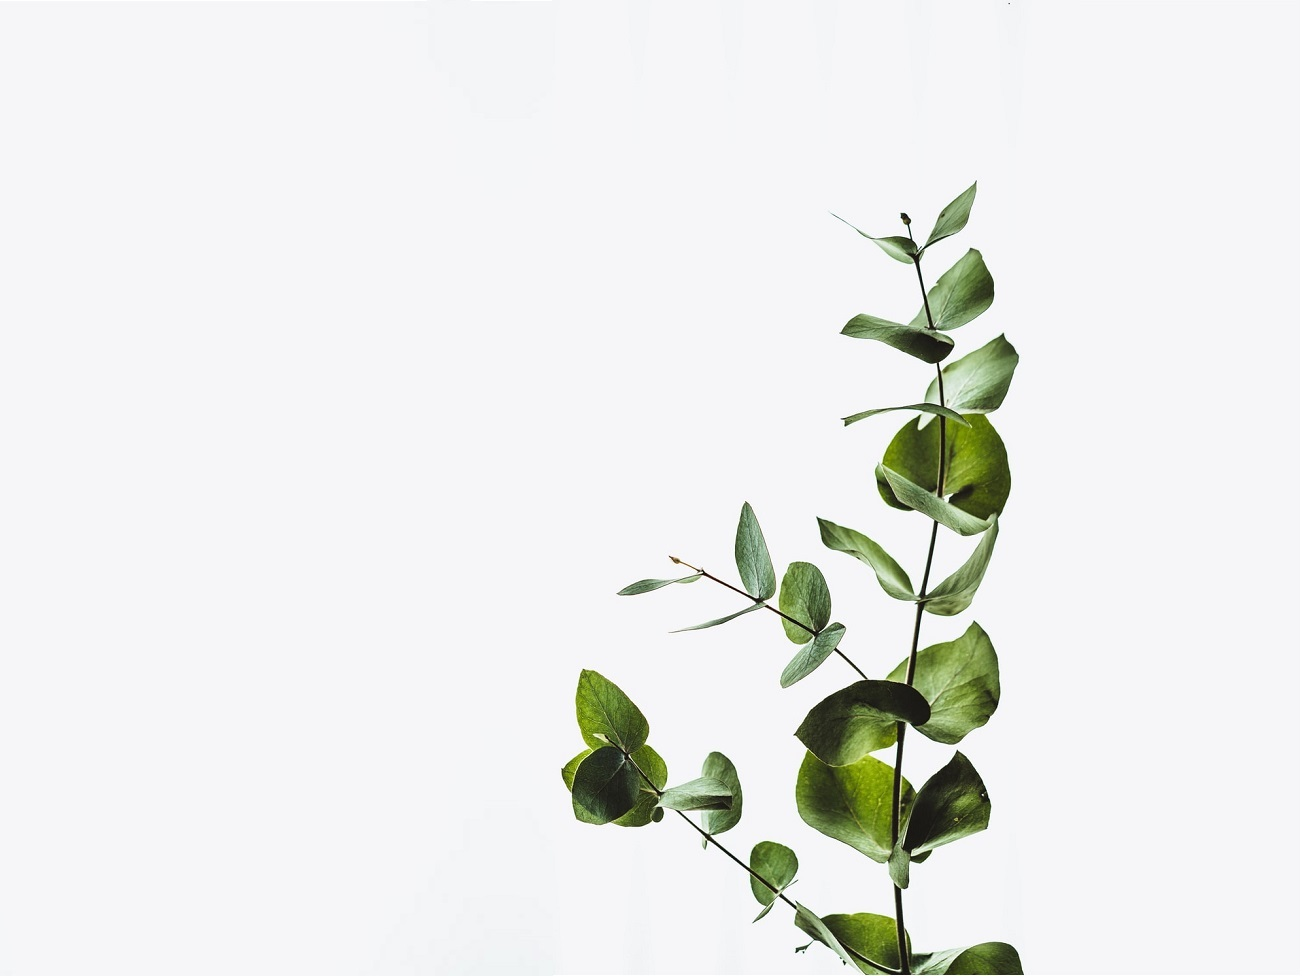
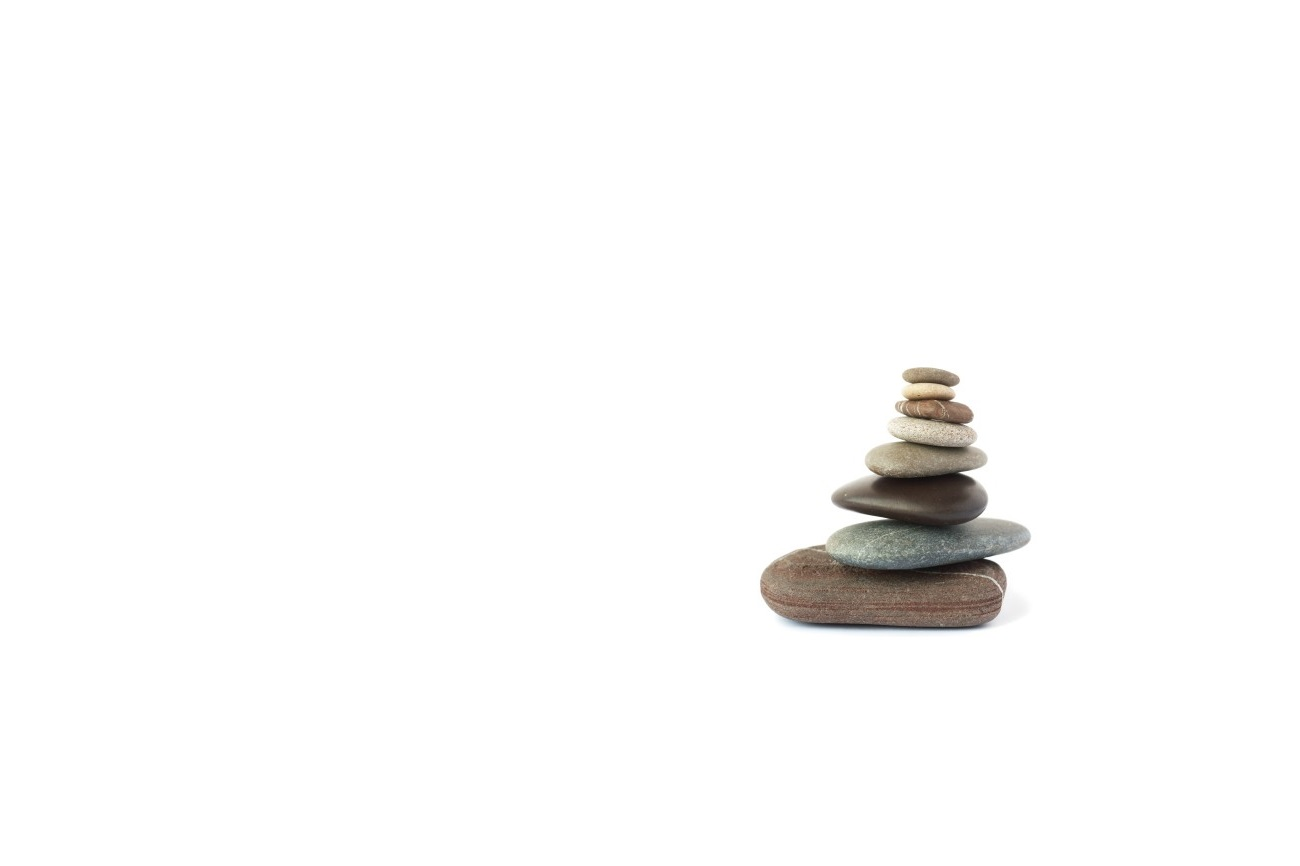
Added home page

Changed region(s): [[0.4308, 0.1871, 0.8, 1.0]]

diff --git a/index.html b/index.html
@@ -68,6 +68,7 @@
 					<div id="navbar" class="collapse">
 						<ul>
 							<li class="active"><a href="#" data-nav-section="home">Home</a></li>
+							<li class="active"><a href="#" data-nav-section="about">About Me</a></li>
 							<li><a href="#" data-nav-section="experience">Experience</a></li>
 							<li><a href="#" data-nav-section="skills">Skills Stack</a></li>
 							<li><a href="#" data-nav-section="work">Work</a></li>
@@ -86,7 +87,7 @@
 									style="font-size:24px;"></i></a></li>
 						<li><a href="http://www.uschess.org/datapage/gamestats.php?memid=14479923"><i
 									class="fas fa-chess-knight" style="font-size:24px;"></i></a></li>
-						<li><a href="https://sandboxsetup.blogspot.com/?view=snapshot"><i class="fab fa-blogger"
+						<li><a href="https://sandboxsetup.blogspot.com/?view=classic"><i class="fab fa-blogger"
 									style="font-size:24px;"></i></a></li>
 						<li><a href="mailto:anp.vinay@gmail.com"><i class="fas fa-envelope"
 									style="font-size:24px;"></i></a></li></span>
@@ -95,9 +96,60 @@
 
 			</aside>
 
-			<div id="colorlib-main">
 
-				<section class="colorlib-about" data-section="home">
+
+			<div id="colorlib-main">
+				<section id="colorlib-hero" class="js-fullheight" data-section="home">
+					<div class="flexslider js-fullheight">
+						<ul class="slides">
+							<li style="background-image: url(images/img_bg_1.jpg);">
+								<div class="overlay"></div>
+								<div class="container-fluid">
+									<div class="row">
+										<div
+											class="col-md-6 col-md-offset-3 col-md-pull-3 col-sm-12 col-xs-12 js-fullheight slider-text">
+											<div class="slider-text-inner js-fullheight">
+												<div class="desc">
+													<h1>Hi! <br>I'm Vinay</h1>
+													<h2>I am a IT Architect, working on Business Intelligence, Data
+														Warehousing and CRM Apps<a href="#" target="_blank"></a>
+													</h2>
+													<p><a href="profile.pdf" class="btn btn-primary btn-learn">Download
+														CV <i class="icon-download4"></i></a></p>
+													<!--p><a href="profile.pdf" class="btn btn-primary btn-learn">Download CV <i class="icon-download4"></i></a></!--p-->
+												</div>
+											</div>
+										</div>
+									</div>
+								</div>
+							</li>
+							<!--li style="background-image: url(images/img_bg_2.jpg);">
+								<div class="overlay"></div>
+								<div class="container-fluid">
+									<div class="row">
+										<div
+											class="col-md-6 col-md-offset-3 col-md-pull-3 col-sm-12 col-xs-12 js-fullheight slider-text">
+											<div class="slider-text-inner">
+												<div class="desc">
+													<h1>Hi! <br>I'm Vinay</h1>
+													<h2>I am a IT Architect, I work on Business Intelligence, Data
+														Warehousing and CRM Applications<a href="#" target="_blank"></a>
+													</h2>
+													<p><a href="profile.pdf" class="btn btn-primary btn-learn">View Portfolio <i class="icon-briefcase3"></i></a></p>
+													<p><a href="profile.pdf" class="btn btn-primary btn-learn">Download
+															CV <i class="icon-download4"></i></a></p>
+												</div>
+											</div>
+										</div>
+									</div>
+								</div>
+							</!--li-->
+						</ul>
+					</div>
+				</section>
+
+
+				<section class="colorlib-about" data-section="about">
 					<div class="colorlib-narrow-content">
 						<div class="row">
 							<div class="col-md-12">
@@ -386,8 +438,10 @@
 							<!--line-->
 							<div class="col-md-6 animate-box" data-animate-effect="fadeInLeft">
 								<div class="progress-wrap">
-									<p><h3><strong> Data Science: </strong> R Programming, Python </h3></p>
-									
+									<p>
+										<h3><strong> Data Science: </strong> R Programming, Python </h3>
+									</p>
+
 									<div class="progress">
 										<div class="progress-bar color-4" role="progressbar" aria-valuenow="50"
 											aria-valuemin="0" aria-valuemax="100" style="width:50%">
@@ -399,7 +453,9 @@
 
 							<div class="col-md-6 animate-box" data-animate-effect="fadeInRight">
 								<div class="progress-wrap">
-									<p><h3><strong>Big Data: </strong> Hadoop HDFS, Hive, MongoDB </br> </h3></p>
+									<p>
+										<h3><strong>Big Data: </strong> Hadoop HDFS, Hive, MongoDB </br> </h3>
+									</p>
 									<div class="progress">
 										<div class="progress-bar color-4" role="progressbar" aria-valuenow="50"
 											aria-valuemin="0" aria-valuemax="100" style="width:50%">
@@ -412,8 +468,11 @@
 							<!--line-->
 							<div class="col-md-6 animate-box" data-animate-effect="fadeInLeft">
 								<div class="progress-wrap">
-									<p><h3><strong>DevOps Tools: </strong> JIRA, Confluence, CA SCM, Git, MS SharePoint,
-										VSS, HPQC</h3></p>
+									<p>
+										<h3><strong>DevOps Tools: </strong> JIRA, Confluence, CA SCM, Git, MS
+											SharePoint,
+											VSS, HPQC</h3>
+									</p>
 									<div class="progress">
 										<div class="progress-bar color-5" role="progressbar" aria-valuenow="70"
 											aria-valuemin="0" aria-valuemax="100" style="width:70%">
@@ -424,8 +483,10 @@
 							</div>
 							<div class="col-md-6 animate-box" data-animate-effect="fadeInRight">
 								<div class="progress-wrap">
-									<p><h3><strong>OS: </strong> Windows Server 2012 R, Red Hat Enterprise Linux, AIX
-										,UNIX, Azure and AWS Cloud </h3></p>
+									<p>
+										<h3><strong>OS: </strong> Windows Server 2012 R, Red Hat Enterprise Linux, AIX
+											,UNIX, Azure and AWS Cloud </h3>
+									</p>
 									<div class="progress">
 										<div class="progress-bar color-6" role="progressbar" aria-valuenow="75"
 											aria-valuemin="0" aria-valuemax="100" style="width:75%">
@@ -492,7 +553,7 @@
 							<div class="col-md-12 animate-box" data-animate-effect="fadeInLeft">
 								<div class="fancy-collapse-panel">
 									<div class="panel-group" id="accordion" role="tablist" aria-multiselectable="true">
-										
+
 										<div class="panel panel-default">
 											<div class="panel-heading" role="tab" id="headingTwo">
 												<h4 class="panel-title">
@@ -551,7 +612,7 @@
 
 
 				<section class="colorlib-blog" data-section="blog">
-					<div class="colorlib-narrow-content">	
+					<div class="colorlib-narrow-content">
 						<div class="row">
 							<div class="col-md-6 col-md-offset-3 col-md-pull-3 animate-box"
 								data-animate-effect="fadeInLeft">
@@ -564,14 +625,16 @@
 						<div class="row">
 							<div class="col-md-3 animate-box" data-animate-effect="fadeInBottom">
 								<div class="services color-2">
-									<span class="icon2"><a href="https://sandboxsetup.blogspot.com/?view=snapshot"><i class="fab fa-blogger" style="font-size:60px;"></i>
+									<span class="icon2"><a href="https://sandboxsetup.blogspot.com/?view=snapshot"><i
+												class="fab fa-blogger" style="font-size:60px;"></i>
 											<font color="red">Knowledge Share</font>
 										</a></span>
 								</div>
 							</div>
 							<div class="col-md-3 animate-box" data-animate-effect="fadeInBottom">
 								<div class="services color-4">
-									<span class="icon2"><a href="https://dynamicindex.blogspot.com/?view=sidebar"><i class="fab fa-blogger" style="font-size:60px;"></i>
+									<span class="icon2"><a href="https://dynamicindex.blogspot.com/?view=sidebar"><i
+												class="fab fa-blogger" style="font-size:60px;"></i>
 											<font color="#a84cb8"></br>Useful Index</font>
 										</a></span>
 								</div>

diff --git a/css/animate.css b/css/animate.css
@@ -8,8 +8,8 @@ Copyright (c) 2015 Daniel Eden
 */
 
 .animated {
-  -webkit-animation-duration: 1s;
-  animation-duration: 1s;
+  -webkit-animation-duration: .75s;
+  animation-duration: 0.75s;
   -webkit-animation-fill-mode: both;
   animation-fill-mode: both;
 }
@@ -20,20 +20,20 @@ Copyright (c) 2015 Daniel Eden
 }
 
 .animated.hinge {
-  -webkit-animation-duration: 2s;
-  animation-duration: 2s;
+  -webkit-animation-duration: 1s;
+  animation-duration: 1s;
 }
 
 .animated.bounceIn,
 .animated.bounceOut {
-  -webkit-animation-duration: .75s;
-  animation-duration: .75s;
+  -webkit-animation-duration: .5s;
+  animation-duration: .5s;
 }
 
 .animated.flipOutX,
 .animated.flipOutY {
-  -webkit-animation-duration: .75s;
-  animation-duration: .75s;
+  -webkit-animation-duration: .5s;
+  animation-duration: .5s;
 }
 
 @-webkit-keyframes bounce {
